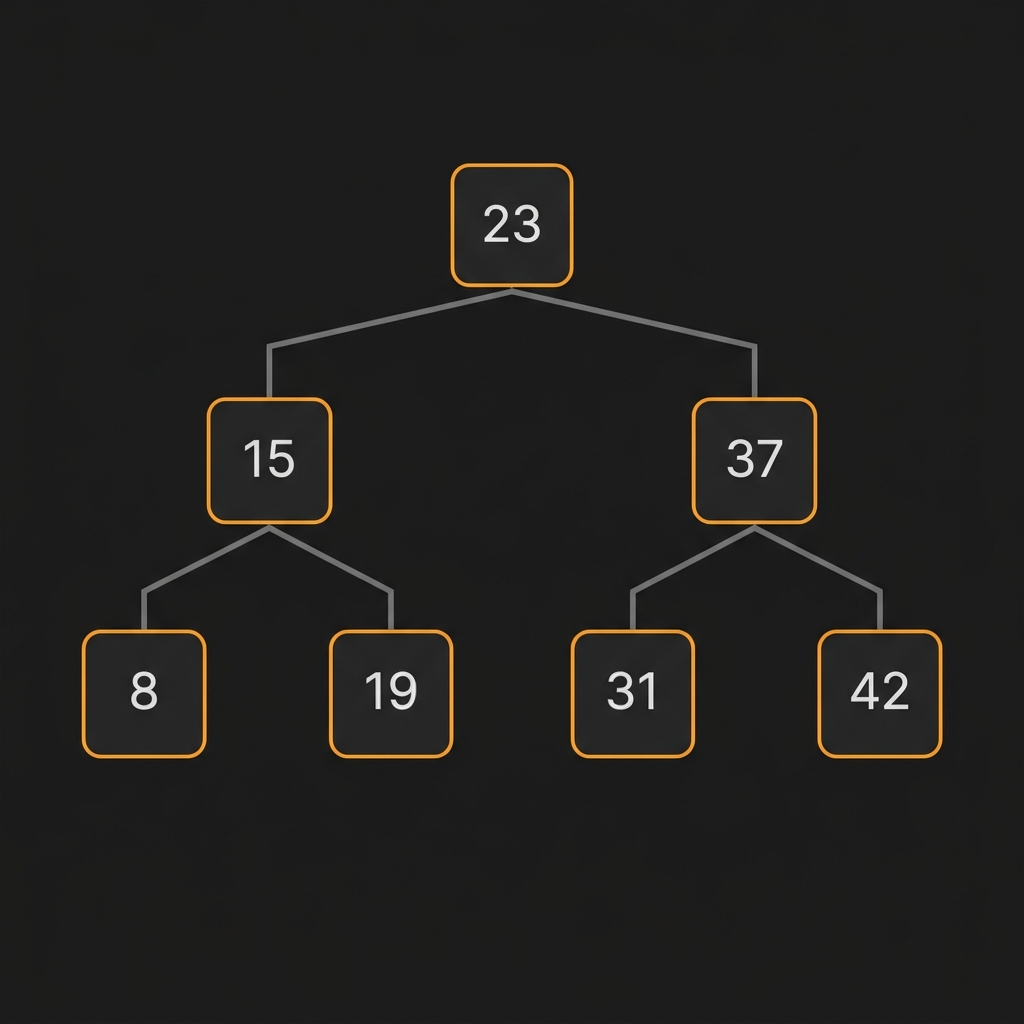
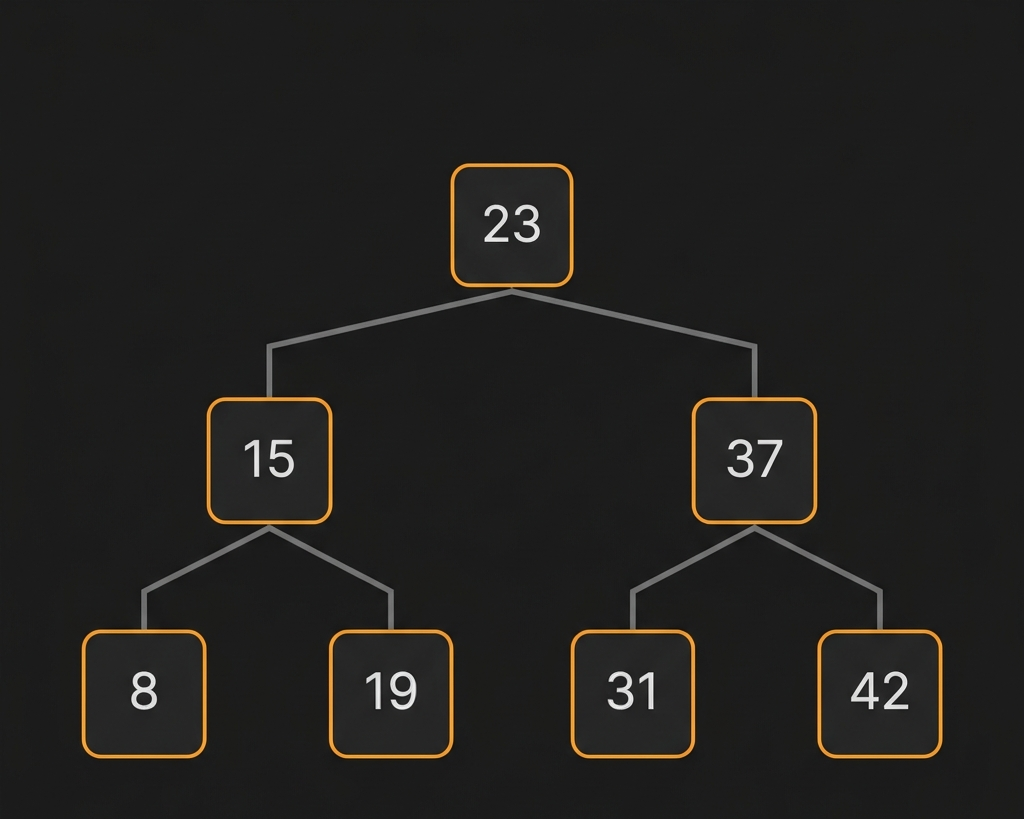
Landing page: small tweaks

diff --git a/docs/index.html b/docs/index.html
@@ -114,7 +114,6 @@
       <div class="hidden md:flex items-center justify-center space-x-8 flex-1">
         <a class="nav-link text-sm font-medium" href="#features">Product</a>
         <a class="nav-link text-sm font-medium" href="https://github.com/varunanand2006/LeetCoach" target="_blank">Open Source</a>
-        <a class="nav-link text-sm font-medium" href="#pricing">Pricing</a>
       </div>
       <div class="flex-1 hidden md:block"></div>
     </nav>
@@ -137,27 +136,75 @@
             highlighting bugs, and asking questions about what you wrote like an interviewer would.
           </p>
 
-          <div class="flex flex-col sm:flex-row gap-4 pt-2 w-full justify-center items-center">
+          <div class="flex flex-col sm:flex-row gap-6 pt-2 w-full justify-center items-center">
             <a href="https://chromewebstore.google.com/detail/mphhiilfiepjpipajkgoehmoncilcmfj" target="_blank"
-              class="bg-white text-black font-semibold px-8 py-4 rounded-lg flex items-center justify-center gap-2 hover:bg-gray-200 transition-colors text-lg">
-              <svg class="w-6 h-6" viewBox="0 0 24 24" fill="none" stroke="currentColor" stroke-width="2" stroke-linecap="round" stroke-linejoin="round"><circle cx="12" cy="12" r="10"></circle><circle cx="12" cy="12" r="4"></circle><line x1="21.17" y1="8" x2="12" y2="8"></line><line x1="3.95" y1="6.06" x2="8.54" y2="14"></line><line x1="10.88" y1="21.94" x2="15.46" y2="14"></line></svg>
+              class="bg-white text-black font-semibold px-10 py-5 rounded-lg flex items-center justify-center gap-3 hover:bg-gray-200 transition-colors text-xl shrink-0">
+              <svg class="w-7 h-7" viewBox="0 0 24 24" fill="none" stroke="currentColor" stroke-width="2" stroke-linecap="round" stroke-linejoin="round"><circle cx="12" cy="12" r="10"></circle><circle cx="12" cy="12" r="4"></circle><line x1="21.17" y1="8" x2="12" y2="8"></line><line x1="3.95" y1="6.06" x2="8.54" y2="14"></line><line x1="10.88" y1="21.94" x2="15.46" y2="14"></line></svg>
               Add to Chrome
             </a>
+            <div class="flex text-sm text-text-gray/80 items-center text-left whitespace-nowrap">
+              Press <kbd class="bg-surface-light border border-border-color px-1.5 py-0.5 rounded-md font-mono text-white mx-1">Ctrl</kbd> + <kbd class="bg-surface-light border border-border-color px-1.5 py-0.5 rounded-md font-mono text-white mx-1">Shift</kbd> + <kbd class="bg-surface-light border border-border-color px-1.5 py-0.5 rounded-md font-mono text-white mx-1">L</kbd> to activate
+            </div>
           </div>
         </div>
 
-        <div class="relative flex justify-center items-center w-full max-w-6xl mt-20">
-          <div class="glass-mockup w-full shadow-2xl bg-black">
+        <div class="relative w-full max-w-6xl mx-auto mt-20" id="conversation-carousel">
+          <div class="overflow-hidden relative rounded-xl border border-border-color shadow-2xl bg-black">
             <div class="bg-surface-light border-b border-border-color px-4 py-3 flex items-center gap-2">
-              <div class="w-3 h-3 rounded-full bg-border-color"></div>
-              <div class="w-3 h-3 rounded-full bg-border-color"></div>
-              <div class="w-3 h-3 rounded-full bg-border-color"></div>
+              <div class="w-3 h-3 rounded-full bg-[#ff5f56]"></div>
+              <div class="w-3 h-3 rounded-full bg-[#ffbd2e]"></div>
+              <div class="w-3 h-3 rounded-full bg-[#27c93f]"></div>
             </div>
-            <video class="w-full object-cover" autoplay loop muted playsinline>
-              <source src="./demo.mp4" type="video/mp4" />
-            </video>
+            <div class="flex transition-transform duration-500 ease-in-out items-start" id="carousel-inner">
+              <div class="w-full flex-shrink-0"><img src="./demo_pictures/Screenshot (4).png" alt="Conversation 1"
+                  class="w-full h-auto" /></div>
+              <div class="w-full flex-shrink-0"><img src="./demo_pictures/Screenshot 2026-05-27 105504.png"
+                  alt="Conversation 2" class="w-full h-auto" /></div>
+              <div class="w-full flex-shrink-0"><img src="./demo_pictures/Screenshot 2026-05-27 105726.png"
+                  alt="Conversation 3" class="w-full h-auto" /></div>
+              <div class="w-full flex-shrink-0"><img src="./demo_pictures/Screenshot 2026-05-27 105940.png"
+                  alt="Conversation 4" class="w-full h-auto" /></div>
+              <div class="w-full flex-shrink-0"><img src="./demo_pictures/Screenshot 2026-05-27 110144.png"
+                  alt="Conversation 5" class="w-full h-auto" /></div>
+              <div class="w-full flex-shrink-0"><img src="./demo_pictures/Screenshot 2026-05-27 110303.png"
+                  alt="Conversation 6" class="w-full h-auto" /></div>
+            </div>
           </div>
+          <button id="carousel-prev" class="absolute top-1/2 -left-4 md:-left-12 -translate-y-1/2 w-10 h-10 bg-surface-light border border-border-color rounded-full flex items-center justify-center text-white hover:text-primary hover:border-primary transition-colors z-10 shadow-lg"><span class="material-symbols-outlined">chevron_left</span></button>
+          <button id="carousel-next" class="absolute top-1/2 -right-4 md:-right-12 -translate-y-1/2 w-10 h-10 bg-surface-light border border-border-color rounded-full flex items-center justify-center text-white hover:text-primary hover:border-primary transition-colors z-10 shadow-lg"><span class="material-symbols-outlined">chevron_right</span></button>
+          <div class="flex justify-center gap-3 mt-6" id="carousel-indicators"></div>
         </div>
+        <script>
+          document.addEventListener('DOMContentLoaded', () => {
+            const inner = document.getElementById('carousel-inner');
+            const prev = document.getElementById('carousel-prev');
+            const next = document.getElementById('carousel-next');
+            const indicatorsContainer = document.getElementById('carousel-indicators');
+            const slidesCount = inner.children.length;
+            let currentIndex = 0;
+            let interval;
+            for (let i = 0; i < slidesCount; i++) {
+              const dot = document.createElement('button');
+              dot.className = `w-2.5 h-2.5 rounded-full transition-all duration-300 ${i === 0 ? 'bg-primary w-6' : 'bg-border-color hover:bg-text-gray'}`;
+              dot.addEventListener('click', () => { goToSlide(i); resetInterval(); });
+              indicatorsContainer.appendChild(dot);
+            }
+            const indicators = indicatorsContainer.children;
+            function goToSlide(index) {
+              currentIndex = index;
+              inner.style.transform = `translateX(-${currentIndex * 100}%)`;
+              Array.from(indicators).forEach((dot, i) => {
+                dot.className = `w-2.5 h-2.5 rounded-full transition-all duration-300 ${i === currentIndex ? 'bg-primary w-6' : 'bg-border-color hover:bg-text-gray'}`;
+              });
+            }
+            function nextSlide() { currentIndex = (currentIndex < slidesCount - 1) ? currentIndex + 1 : 0; goToSlide(currentIndex); }
+            prev.addEventListener('click', () => { currentIndex = (currentIndex > 0) ? currentIndex - 1 : slidesCount - 1; goToSlide(currentIndex); resetInterval(); });
+            next.addEventListener('click', () => { nextSlide(); resetInterval(); });
+            function startInterval() { interval = setInterval(nextSlide, 4000); }
+            function resetInterval() { clearInterval(interval); startInterval(); }
+            startInterval();
+          });
+        </script>
       </div>
     </section>
 
@@ -228,9 +275,9 @@
             </div>
             <h3 class="text-xl font-semibold text-white mb-3">Visual Diagrams</h3>
             <div class="text-text-gray leading-relaxed flex-grow">
-              See your algorithms come to life. LeetCoach can generate diagrams alongside any response — tree
-              structures, state machines, flowcharts, and more — rendered right in the sidebar so you can visualize the
-              approach instead of just reading about it.
+              Algorithms are hard to follow in your head. LeetCoach generates tree structures, state machines,
+              flowcharts, and more right in the sidebar, so you can actually see what's happening instead of trying
+              to trace through it mentally.
             </div>
             <div class="mt-6 rounded-lg overflow-hidden border border-border-color">
               <img src="./bst-diagram.png" alt="Binary search tree diagram example" class="w-full object-cover" />
@@ -245,9 +292,30 @@
             </div>
             <h3 class="text-xl font-semibold text-white mb-3">Session Review Reports</h3>
             <div class="text-text-gray leading-relaxed flex-grow">
-              When you're done with a problem, generate a full retrospective report. LeetCoach reviews your entire
-              session — how you approached the problem, where you struggled, the optimal solution with its complexity,
-              and what patterns to practice next. It's the debrief a mentor would give you.
+              After you finish a problem, LeetCoach generates a full debrief. It covers how you approached it,
+              where you got stuck, what the optimal solution looks like, and which patterns you should practice
+              next. It's the honest feedback you'd get from a great mentor.
+            </div>
+            <div class="mt-6 rounded-lg overflow-hidden border border-border-color bg-[#0a0a0a] p-5 space-y-3">
+              <div class="flex items-center justify-between">
+                <span class="text-[11px] text-text-gray font-mono">Approach</span>
+                <span class="text-[11px] text-primary font-mono font-medium">Hash Map ✓</span>
+              </div>
+              <div class="border-t border-border-color"></div>
+              <div class="flex items-center justify-between">
+                <span class="text-[11px] text-text-gray font-mono">Complexity</span>
+                <span class="text-[11px] font-mono"><span class="text-text-gray">O(n²)</span> <span class="text-text-gray">→</span> <span class="text-primary font-medium">O(n)</span></span>
+              </div>
+              <div class="border-t border-border-color"></div>
+              <div class="flex items-center justify-between">
+                <span class="text-[11px] text-text-gray font-mono">Edge Cases</span>
+                <span class="text-[11px] text-primary font-mono font-medium">3/4 caught</span>
+              </div>
+              <div class="border-t border-border-color"></div>
+              <div class="flex items-center justify-between">
+                <span class="text-[11px] text-text-gray font-mono">Score</span>
+                <span class="text-[11px] text-primary font-mono font-bold">8 / 10</span>
+              </div>
             </div>
           </div>
 
@@ -259,9 +327,23 @@
             </div>
             <h3 class="text-xl font-semibold text-white mb-3">20+ Languages</h3>
             <div class="text-text-gray leading-relaxed flex-grow">
-              Python, Java, C++, JavaScript, Go, Rust, TypeScript, and more. LeetCoach reads and reviews code in
-              whatever language you write it in — no configuration, no switching. It detects your language automatically
-              and adapts its feedback to match.
+              Write in Python, Java, C++, Go, Rust, TypeScript, or any of the 20+ languages LeetCode supports.
+              LeetCoach detects what you're using and adapts automatically. No setup, no config, just start
+              solving.
+            </div>
+            <div class="mt-6 flex flex-wrap gap-2">
+              <span class="px-3 py-1.5 rounded-lg bg-surface-light border border-border-color text-[11px] font-mono text-primary">Python</span>
+              <span class="px-3 py-1.5 rounded-lg bg-surface-light border border-border-color text-[11px] font-mono text-white">Java</span>
+              <span class="px-3 py-1.5 rounded-lg bg-surface-light border border-border-color text-[11px] font-mono text-white">C++</span>
+              <span class="px-3 py-1.5 rounded-lg bg-surface-light border border-border-color text-[11px] font-mono text-white">JavaScript</span>
+              <span class="px-3 py-1.5 rounded-lg bg-surface-light border border-border-color text-[11px] font-mono text-white">Go</span>
+              <span class="px-3 py-1.5 rounded-lg bg-surface-light border border-border-color text-[11px] font-mono text-white">Rust</span>
+              <span class="px-3 py-1.5 rounded-lg bg-surface-light border border-border-color text-[11px] font-mono text-white">TypeScript</span>
+              <span class="px-3 py-1.5 rounded-lg bg-surface-light border border-border-color text-[11px] font-mono text-white">C#</span>
+              <span class="px-3 py-1.5 rounded-lg bg-surface-light border border-border-color text-[11px] font-mono text-white">Kotlin</span>
+              <span class="px-3 py-1.5 rounded-lg bg-surface-light border border-border-color text-[11px] font-mono text-white">Swift</span>
+              <span class="px-3 py-1.5 rounded-lg bg-surface-light border border-border-color text-[11px] font-mono text-white">Ruby</span>
+              <span class="px-3 py-1.5 rounded-lg bg-surface-light border border-border-color text-[11px] font-mono text-text-gray">+ more</span>
             </div>
           </div>
         </div>
@@ -281,100 +363,18 @@
           </p>
         </div>
 
-        <!-- Carousel Container -->
-        <div class="relative w-full max-w-6xl mx-auto" id="conversation-carousel">
-          <!-- Slides -->
-          <div class="overflow-hidden relative rounded-xl border border-border-color shadow-2xl bg-black">
-            <div class="flex transition-transform duration-500 ease-in-out items-start" id="carousel-inner">
-              <div class="w-full flex-shrink-0"><img src="./demo_pictures/Screenshot (4).png" alt="Conversation 1"
-                  class="w-full h-auto" /></div>
-              <div class="w-full flex-shrink-0"><img src="./demo_pictures/Screenshot 2026-05-27 105504.png"
-                  alt="Conversation 2" class="w-full h-auto" /></div>
-              <div class="w-full flex-shrink-0"><img src="./demo_pictures/Screenshot 2026-05-27 105726.png"
-                  alt="Conversation 3" class="w-full h-auto" /></div>
-              <div class="w-full flex-shrink-0"><img src="./demo_pictures/Screenshot 2026-05-27 105940.png"
-                  alt="Conversation 4" class="w-full h-auto" /></div>
-              <div class="w-full flex-shrink-0"><img src="./demo_pictures/Screenshot 2026-05-27 110144.png"
-                  alt="Conversation 5" class="w-full h-auto" /></div>
-              <div class="w-full flex-shrink-0"><img src="./demo_pictures/Screenshot 2026-05-27 110303.png"
-                  alt="Conversation 6" class="w-full h-auto" /></div>
+        <div class="relative flex justify-center items-center w-full max-w-6xl">
+          <div class="glass-mockup w-full shadow-2xl bg-black">
+            <div class="bg-surface-light border-b border-border-color px-4 py-3 flex items-center gap-2">
+              <div class="w-3 h-3 rounded-full bg-[#ff5f56]"></div>
+              <div class="w-3 h-3 rounded-full bg-[#ffbd2e]"></div>
+              <div class="w-3 h-3 rounded-full bg-[#27c93f]"></div>
             </div>
-          </div>
-
-          <!-- Prev/Next Controls -->
-          <button id="carousel-prev"
-            class="absolute top-1/2 -left-4 md:-left-12 -translate-y-1/2 w-10 h-10 bg-surface-light border border-border-color rounded-full flex items-center justify-center text-white hover:text-primary hover:border-primary transition-colors z-10 shadow-lg">
-            <span class="material-symbols-outlined">chevron_left</span>
-          </button>
-          <button id="carousel-next"
-            class="absolute top-1/2 -right-4 md:-right-12 -translate-y-1/2 w-10 h-10 bg-surface-light border border-border-color rounded-full flex items-center justify-center text-white hover:text-primary hover:border-primary transition-colors z-10 shadow-lg">
-            <span class="material-symbols-outlined">chevron_right</span>
-          </button>
-
-          <!-- Indicators -->
-          <div class="flex justify-center gap-3 mt-6" id="carousel-indicators">
-            <!-- JS will populate -->
+            <video class="w-full object-cover" autoplay loop muted playsinline>
+              <source src="./demo.mp4" type="video/mp4" />
+            </video>
           </div>
         </div>
-
-        <script>
-          document.addEventListener('DOMContentLoaded', () => {
-            const inner = document.getElementById('carousel-inner');
-            const prev = document.getElementById('carousel-prev');
-            const next = document.getElementById('carousel-next');
-            const indicatorsContainer = document.getElementById('carousel-indicators');
-            const slidesCount = inner.children.length;
-            let currentIndex = 0;
-            let interval;
-
-            // Create indicators
-            for (let i = 0; i < slidesCount; i++) {
-              const dot = document.createElement('button');
-              dot.className = `w-2.5 h-2.5 rounded-full transition-all duration-300 ${i === 0 ? 'bg-primary w-6' : 'bg-border-color hover:bg-text-gray'}`;
-              dot.addEventListener('click', () => {
-                goToSlide(i);
-                resetInterval();
-              });
-              indicatorsContainer.appendChild(dot);
-            }
-            const indicators = indicatorsContainer.children;
-
-            function goToSlide(index) {
-              currentIndex = index;
-              inner.style.transform = `translateX(-${currentIndex * 100}%)`;
-              Array.from(indicators).forEach((dot, i) => {
-                dot.className = `w-2.5 h-2.5 rounded-full transition-all duration-300 ${i === currentIndex ? 'bg-primary w-6' : 'bg-border-color hover:bg-text-gray'}`;
-              });
-            }
-
-            function nextSlide() {
-              currentIndex = (currentIndex < slidesCount - 1) ? currentIndex + 1 : 0;
-              goToSlide(currentIndex);
-            }
-
-            prev.addEventListener('click', () => {
-              currentIndex = (currentIndex > 0) ? currentIndex - 1 : slidesCount - 1;
-              goToSlide(currentIndex);
-              resetInterval();
-            });
-
-            next.addEventListener('click', () => {
-              nextSlide();
-              resetInterval();
-            });
-
-            function startInterval() {
-              interval = setInterval(nextSlide, 4000);
-            }
-
-            function resetInterval() {
-              clearInterval(interval);
-              startInterval();
-            }
-
-            startInterval();
-          });
-        </script>
       </div>
     </section>
 
@@ -459,9 +459,9 @@
         <div class="relative flex justify-center items-center">
           <div class="glass-mockup w-full shadow-2xl">
             <div class="bg-surface-light border-b border-border-color px-4 py-3 flex items-center gap-2">
-              <div class="w-3 h-3 rounded-full bg-border-color"></div>
-              <div class="w-3 h-3 rounded-full bg-border-color"></div>
-              <div class="w-3 h-3 rounded-full bg-border-color"></div>
+              <div class="w-3 h-3 rounded-full bg-[#ff5f56]"></div>
+              <div class="w-3 h-3 rounded-full bg-[#ffbd2e]"></div>
+              <div class="w-3 h-3 rounded-full bg-[#27c93f]"></div>
             </div>
             <img alt="LeetCoach Sidebar Interface" class="w-full object-cover" src="./ss.png" />
           </div>
@@ -481,9 +481,9 @@
           <div class="border-gradient rounded-2xl p-1 bg-surface-light">
             <div class="bg-background rounded-xl p-8 border border-border-color h-full flex flex-col">
               <h3 class="text-xl font-semibold text-white mb-2">Free</h3>
-              <div class="flex items-baseline justify-center gap-1 mb-6">
-                <span class="text-4xl font-bold text-white">$0</span>
-                <span class="text-text-gray">/ week</span>
+              <div class="flex items-baseline justify-center gap-1 mb-6 flex-col">
+                <span class="text-4xl font-bold text-white w-full text-center">$0</span>
+                <span class="text-text-gray text-sm w-full text-center">Refills weekly</span>
               </div>
               <ul class="space-y-3 text-left mb-8 flex-grow">
                 <li class="flex items-center gap-3 text-text-gray text-sm">
